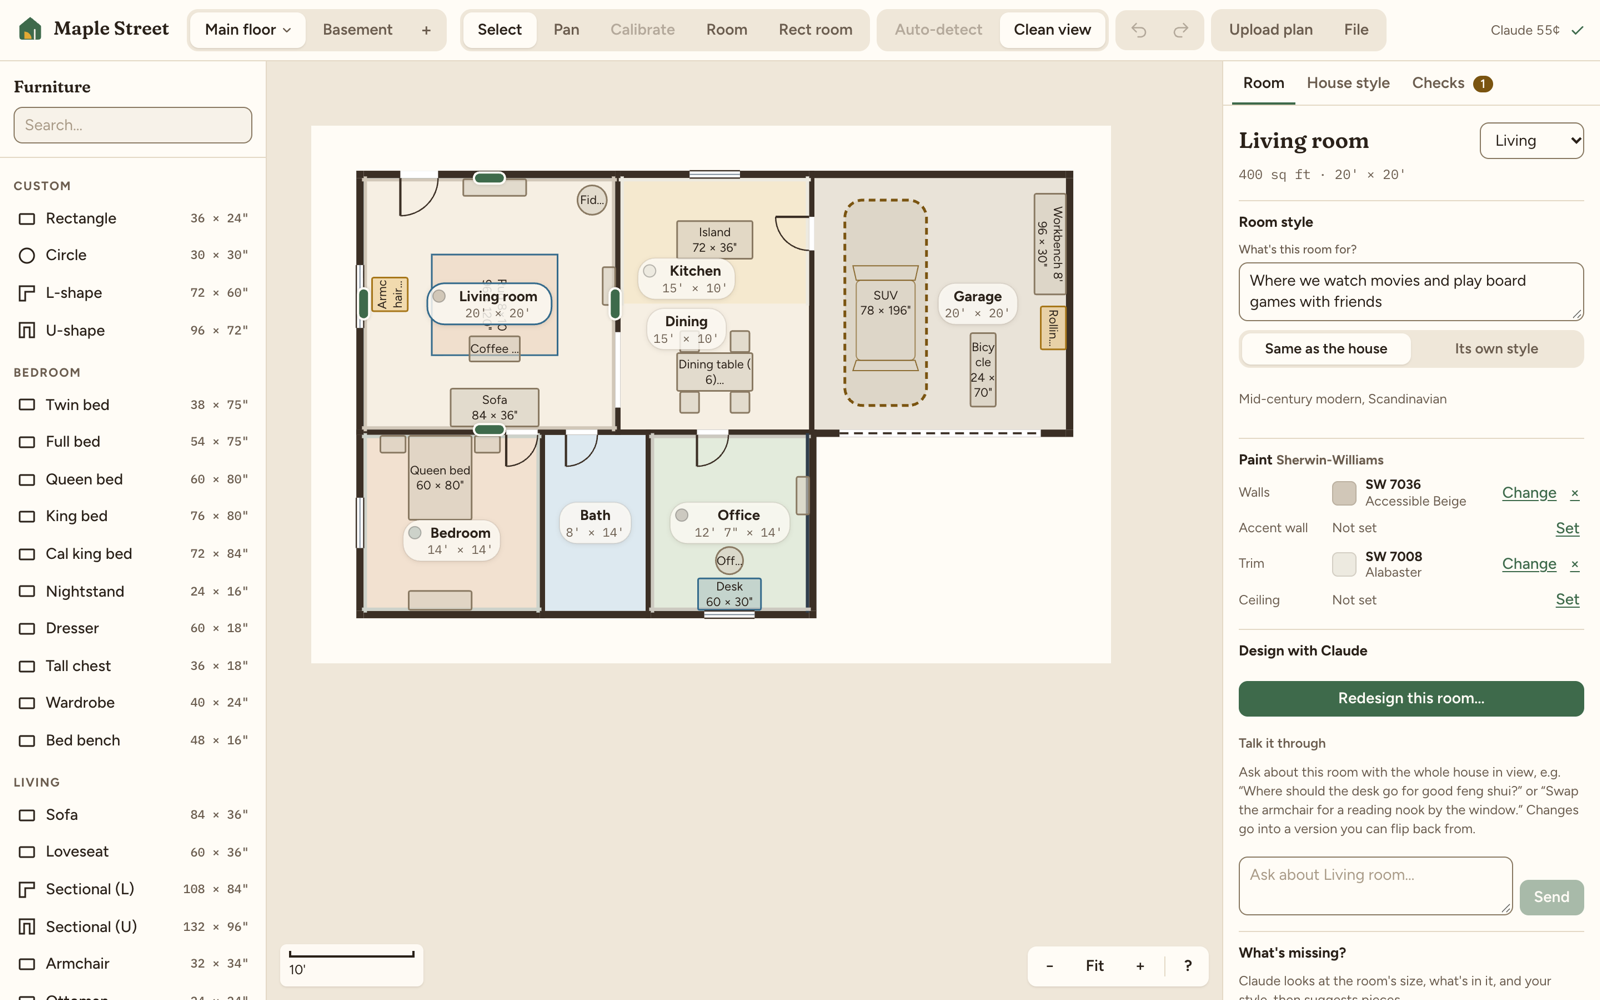
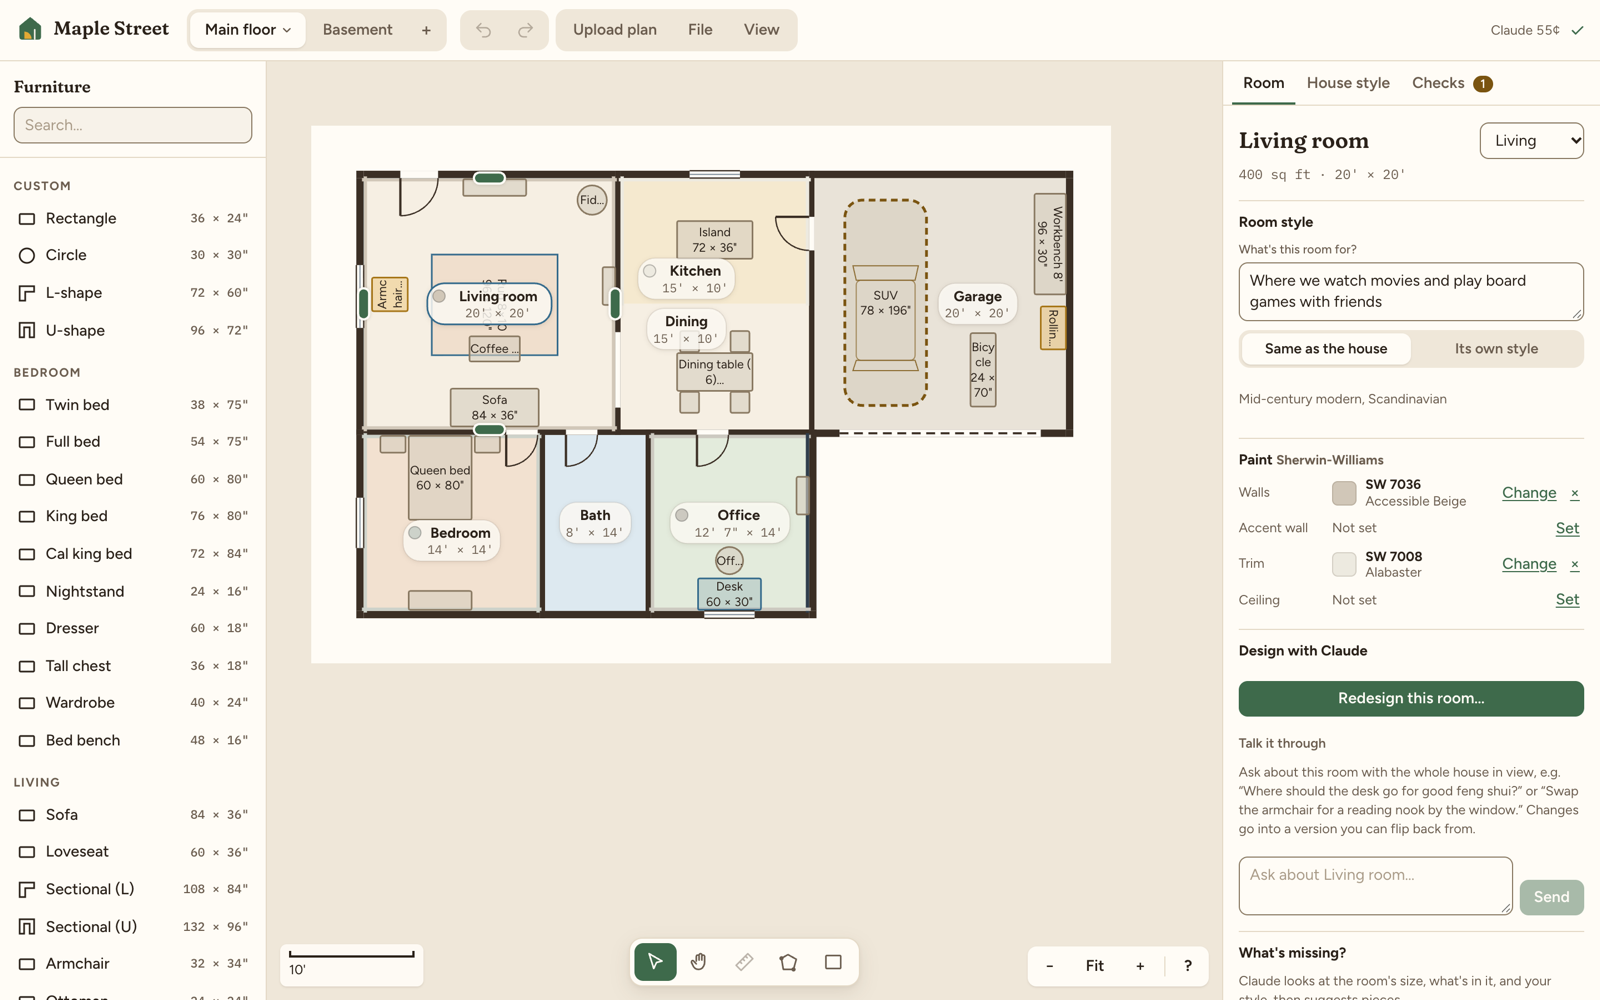
README: refresh screenshots for the new toolbar, tool dock and theme toggle
Retaken in light mode from a made-up demo house. The requirements table
now mentions selecting several pieces and light and dark modes.

Changed region(s): [[0.4375, 0.0, 0.875, 0.062], [0.375, 0.93, 0.5625, 0.992], [0.2812, 0.0, 0.4062, 0.062]]

diff --git a/README.md b/README.md
@@ -46,7 +46,7 @@ People furnishing or rearranging a home they already have a floor plan for: new 
 | --- | --- | --- |
 | P0 | Import a floor plan and set its scale | Upload PNG, JPG, SVG or PDF; click both ends of a known wall to calibrate. Or start on a blank grid. |
 | P0 | Turn the plan into rooms, doors and windows | **Auto-detect** has Claude read room names, doors (with hinge and swing), windows and printed dimensions; the app snaps them to the walls it measures in the image and standardizes wall thickness. You review before anything is added. |
-| P0 | Place furniture at real size | A library of standard pieces (bedroom, living, dining, office, gym, plants, garage, rugs, doors and windows) plus custom shapes. Every piece is marked as *have it*, *planned* or *to buy*. |
+| P0 | Place furniture at real size | A library of standard pieces (bedroom, living, dining, office, gym, plants, garage, rugs, doors and windows) plus custom shapes. Every piece is marked as *have it*, *planned* or *to buy*. Select several (drag a box or shift-click) to move, duplicate or delete them together. |
 | P0 | Catch layout problems | Live checks for overlaps, pieces through walls, door swings and clearances (bed sides, drawers, chair pull-back, car doors), measured to walls and furniture, not to open sides between rooms. |
 | P1 | Suggest what a room is missing | **What's missing** sends the room's shape, contents and style to Claude and adds a suggestion to the plan in one click, in an open spot. |
 | P1 | Shop for a piece that fits | **Shop for this** has Claude search the web for real products that fit the shape, your style and palette, and labels each one *Fits*, *Tight* or *Too big* from its listed dimensions. |
@@ -54,6 +54,7 @@ People furnishing or rearranging a home they already have a floor plan for: new 
 | P1 | Style at house and room level | A shared **House style** (styles, Sherwin-Williams palette, things to avoid, budget), and per-room style: "what's this room for?" plus the room's own styles. |
 | P1 | Multi-floor homes | A house has floors (tabs in the toolbar) that share one style; Claude sees the rooms on every floor. |
 | P2 | Paint planning | Each room's walls, accent wall, trim and ceiling as Sherwin-Williams colors. |
+| P2 | Light and dark | Light, dark, or follow the system setting, from the home page or the View menu. |
 | P2 | Export | The plan as PNG, and a shopping list with paint as Markdown or CSV. |
 
 ### Success measures
